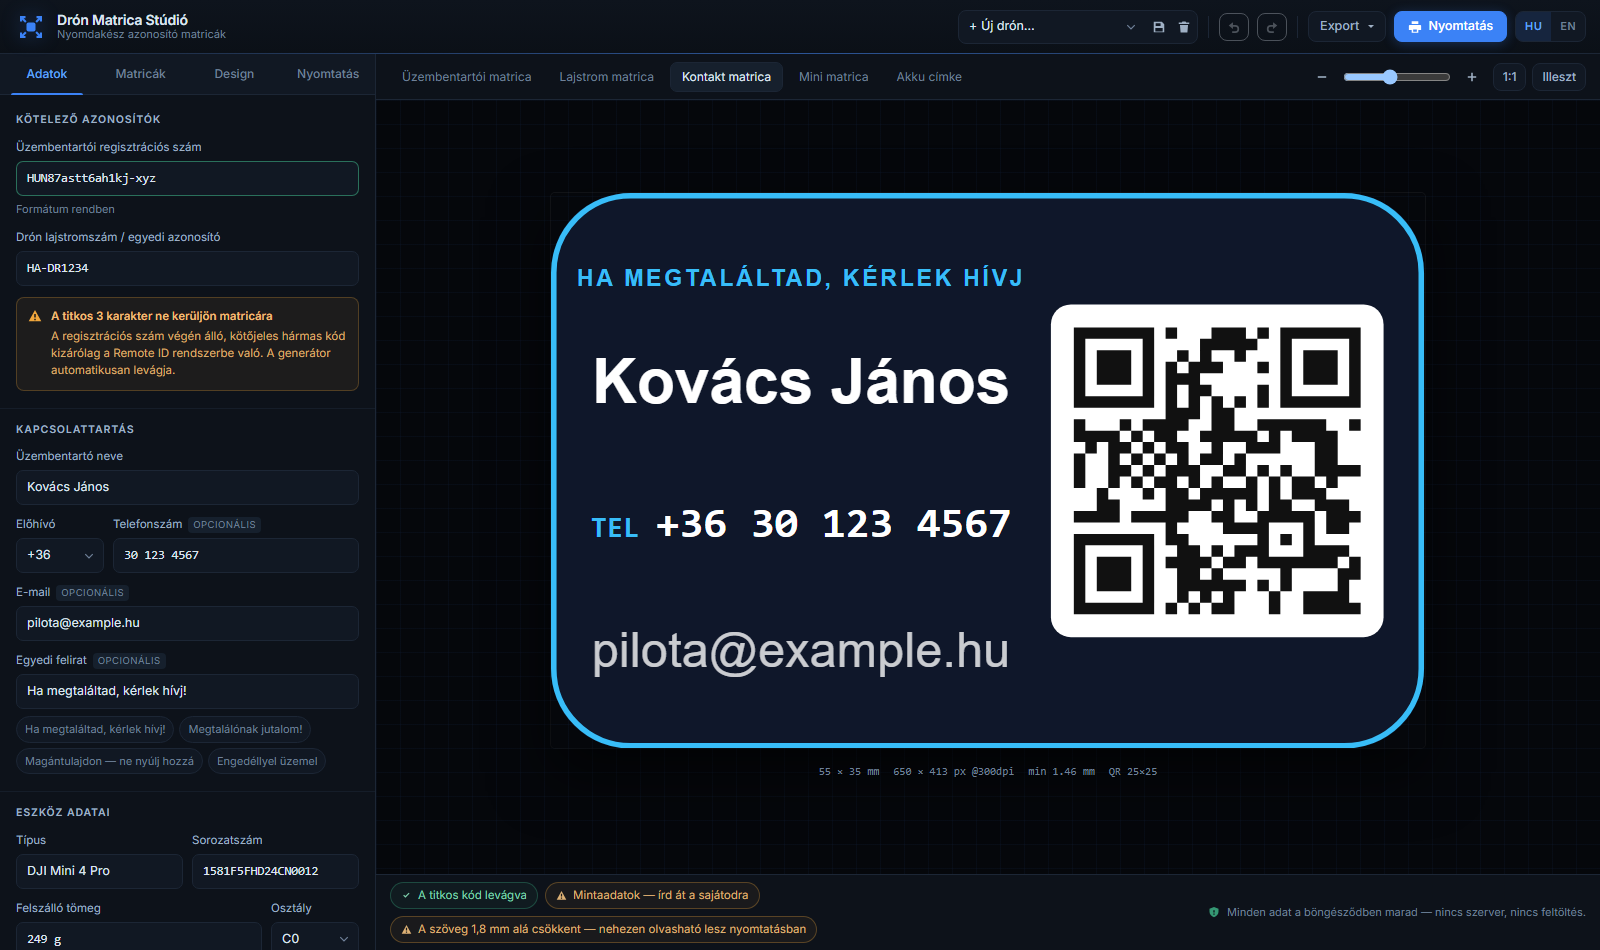
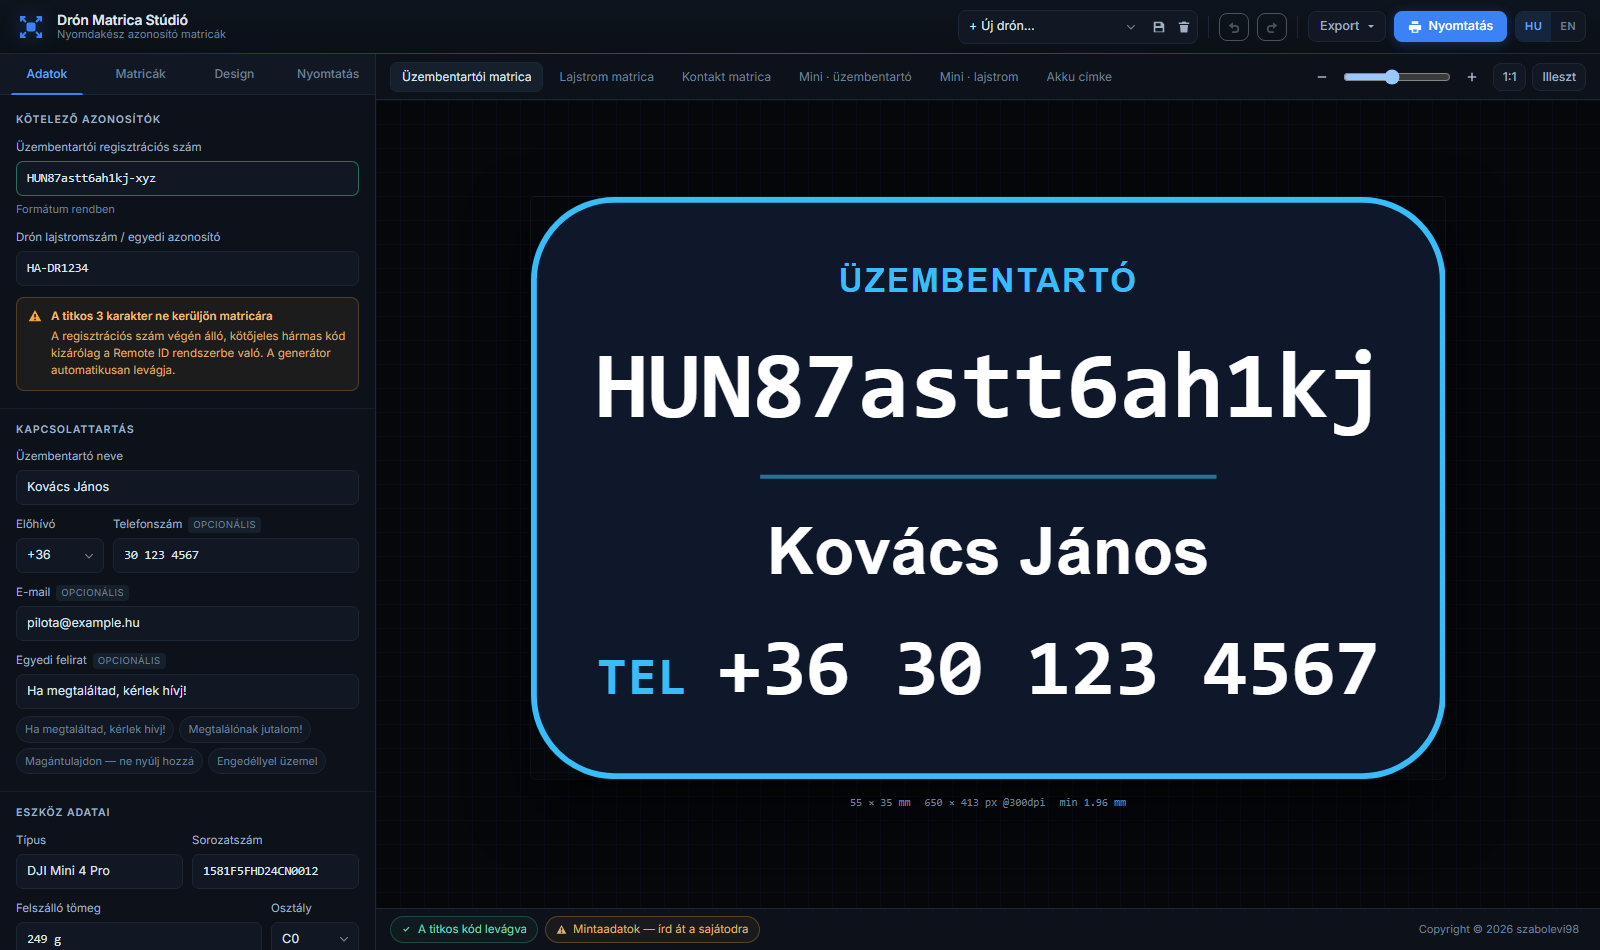
Mini lajstrom matrica, copyright lábléc, adatvédelmi sor eltávolítása
A mini matricából két változat lett: az üzembentartói számhoz és a
lajstromszámhoz — a jogszabály csak ezt a két azonosítót írja elő, így
mindkettő elfér a legkisebb méretben is. Mindkettő kötelezőként jelölve.

A láblécből kikerült az adatvédelmi sor, helyette a levente.net-re mutató
copyright áll, dinamikus évszámmal. A LICENSE és a README is frissült.

diff --git a/js/i18n.js b/js/i18n.js
@@ -147,7 +147,6 @@ const DICT = {
     'contrast.warn': 'Elfogadható, de javítható',
     'contrast.bad': 'Túl gyenge kontraszt',
 
-    'privacy': 'Minden adat a böngésződben marad — nincs szerver, nincs feltöltés.',
 
     'toast.saved': 'Mentve: {n}',
     'toast.deleted': 'Törölve',
@@ -166,7 +165,8 @@ const DICT = {
     'type.operator': 'Üzembentartói matrica',
     'type.reg': 'Lajstrom matrica',
     'type.contact': 'Kontakt matrica',
-    'type.mini': 'Mini matrica',
+    'type.mini': 'Mini · üzembentartó',
+    'type.miniReg': 'Mini · lajstrom',
     'type.battery': 'Akku címke',
     'type.required': 'kötelező',
 
@@ -351,7 +351,6 @@ const DICT = {
     'contrast.warn': 'Acceptable, could be better',
     'contrast.bad': 'Contrast is too low',
 
-    'privacy': 'Everything stays in your browser — no server, no upload.',
 
     'toast.saved': 'Saved: {n}',
     'toast.deleted': 'Deleted',
@@ -370,7 +369,8 @@ const DICT = {
     'type.operator': 'Operator label',
     'type.reg': 'Registration label',
     'type.contact': 'Contact label',
-    'type.mini': 'Mini label',
+    'type.mini': 'Mini · operator',
+    'type.miniReg': 'Mini · registration',
     'type.battery': 'Battery label',
     'type.required': 'mandatory',
 

diff --git a/css/style.css b/css/style.css
@@ -657,8 +657,16 @@ body {
 .warn-pill.warn { color: #ddb175; border-color: rgba(240, 166, 60, .3); background: rgba(240, 166, 60, .06); }
 .warn-pill.ok { color: #7fd0ac; border-color: rgba(63, 185, 138, .3); background: rgba(63, 185, 138, .06); }
 
-.privacy { display: flex; align-items: center; gap: 7px; font-size: 11px; color: var(--muted); white-space: nowrap; }
-.privacy svg { width: 12px; height: 12px; fill: var(--ok); opacity: .8; }
+.credit {
+  font-size: 11px;
+  color: var(--muted);
+  text-decoration: none;
+  white-space: nowrap;
+  padding: 3px 7px;
+  border-radius: 5px;
+  transition: color .13s, background .13s;
+}
+.credit:hover { color: var(--accent-hi); background: var(--accent-dim); }
 
 .toast-stack {
   position: fixed;

diff --git a/index.html b/index.html
@@ -492,10 +492,9 @@
 
     <div class="stage-foot">
       <div class="warnings" id="warnings"></div>
-      <div class="privacy">
-        <svg viewBox="0 0 16 16"><path d="M8 1.2 14 3.6v4.2c0 3.3-2.4 6.2-6 7.3-3.6-1.1-6-4-6-7.3V3.6L8 1.2zm-.9 4.4v3.2h1.8V5.6H7.1zm0 4.4v1.8h1.8V10H7.1z"/></svg>
-        <span data-i18n="privacy">Minden adat a böngésződben marad — nincs szerver, nincs feltöltés.</span>
-      </div>
+      <a class="credit" href="https://levente.net/" target="_blank" rel="noopener noreferrer">
+        Copyright &copy; <span id="creditYear">2026</span> szabolevi98
+      </a>
     </div>
   </section>
 

diff --git a/js/layouts.js b/js/layouts.js
@@ -45,8 +45,14 @@ const TYPE_DEFS = {
     ]
   },
   mini: {
+    required: true,
     w: 26, h: 10, shape: 'round', radius: 18, qr: false,
-    blocks: [['operatorId', 1], ['phone', 0], ['owner', 0]]
+    blocks: [['operatorId', 1], ['label.operator', 0], ['phone', 0], ['owner', 0]]
+  },
+  miniReg: {
+    required: true,
+    w: 26, h: 10, shape: 'round', radius: 18, qr: false,
+    blocks: [['regId', 1], ['label.reg', 0], ['operatorId', 0], ['model', 0]]
   },
   battery: {
     w: 40, h: 20, shape: 'round', radius: 12, qr: false,

diff --git a/js/main.js b/js/main.js
@@ -1000,6 +1000,9 @@ function boot() {
   $('d-scale').max = 100;
   if (d.fill > 100) d.fill = 92;
 
+  const yearNode = $('creditYear');
+  if (yearNode) yearNode.textContent = new Date().getFullYear();
+
   wire();
   buildFontSelect();
   buildProfiles();

diff --git a/README.md b/README.md
@@ -15,8 +15,11 @@ Nyomdakész drón azonosító matricák a böngésződben — üzembentartói re
 | Üzembentartói matrica | 55 × 35 mm | A kötelező `HUN…` regisztrációs jelölés |
 | Lajstrom matrica | 55 × 35 mm | Drón lajstromszám / egyedi azonosító |
 | Kontakt matrica | 55 × 35 mm | Név, telefon, e-mail + QR a megtalálónak |
-| Mini matrica | 26 × 10 mm | Akkura, kontrollerre, táskára |
+| Mini · üzembentartó | 26 × 10 mm | Csak a `HUN…` szám — akkura, kontrollerre, táskára |
+| Mini · lajstrom | 26 × 10 mm | Csak a lajstromszám, ugyanabban a méretben |
 | Akku címke | 40 × 20 mm | Sorszám, kapacitás, üzembe helyezés dátuma |
+
+A jogszabály csak a két azonosítót — az üzembentartói számot és a drón lajstromszámát — írja elő; a név, telefonszám, e-mail és weboldal mind opcionális. Ezért az első két típus önmagában is elég, a többi extra.
 
 Minden típus mérete, alakja, tartalma és sorrendje külön állítható, és egyszerre több típus is nyomtatható egy ívre.
 
@@ -79,4 +82,4 @@ A client-side studio for print-ready drone identification labels: EU/EASA operat
 
 ## Licenc
 
-MIT
+MIT — Copyright © 2026 [szabolevi98](https://levente.net/)
